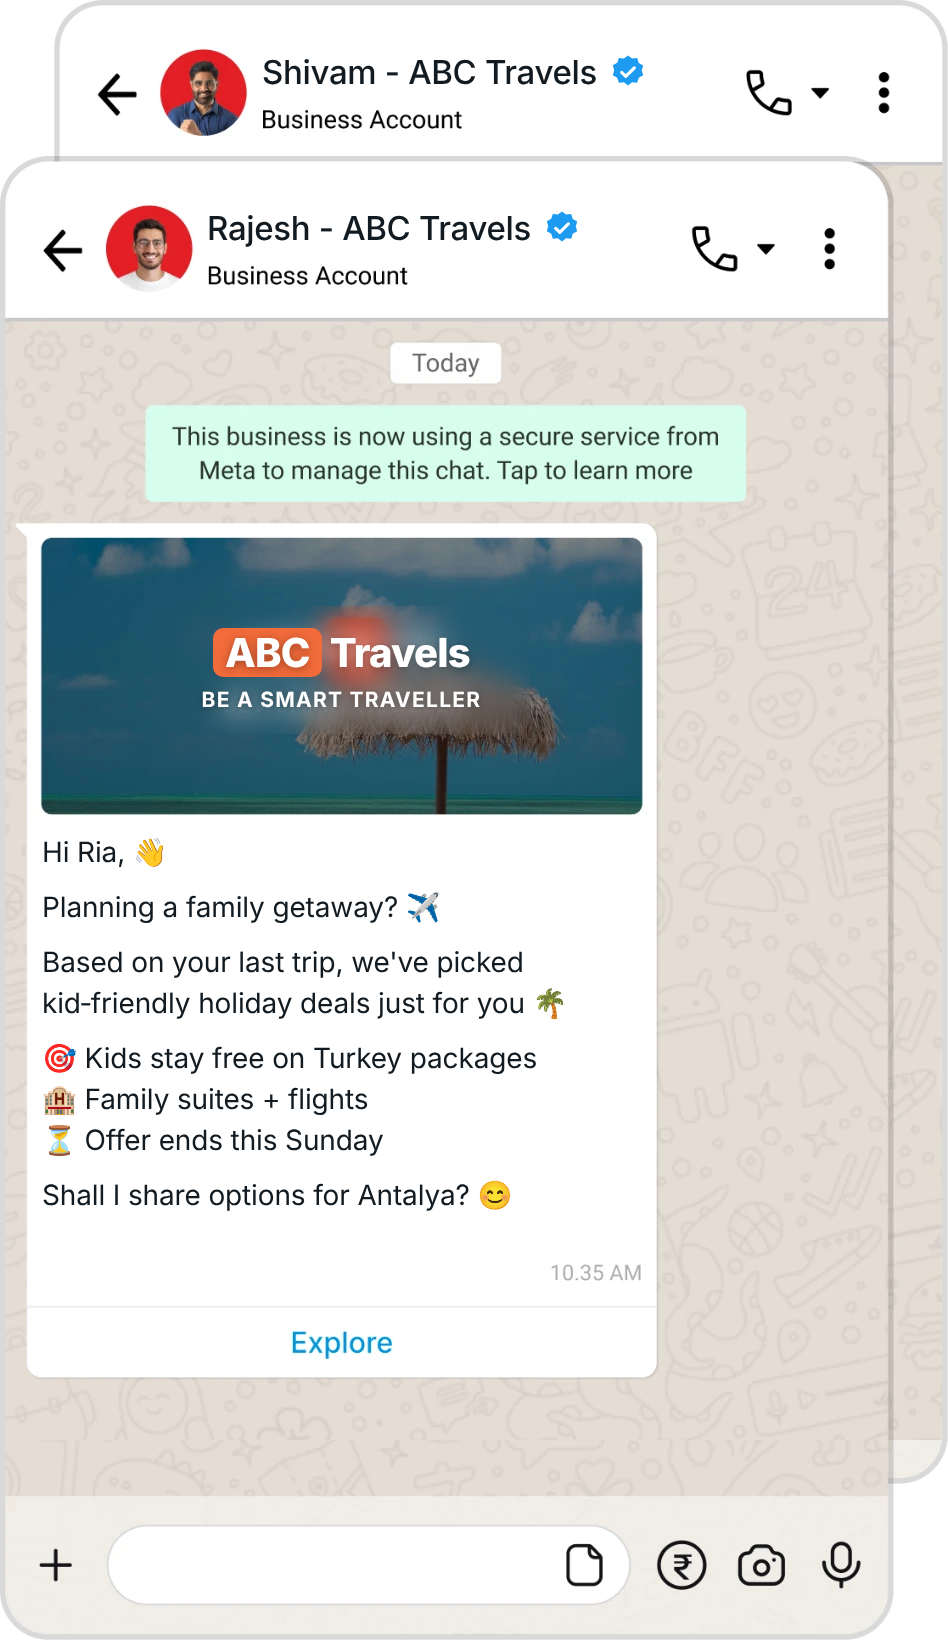
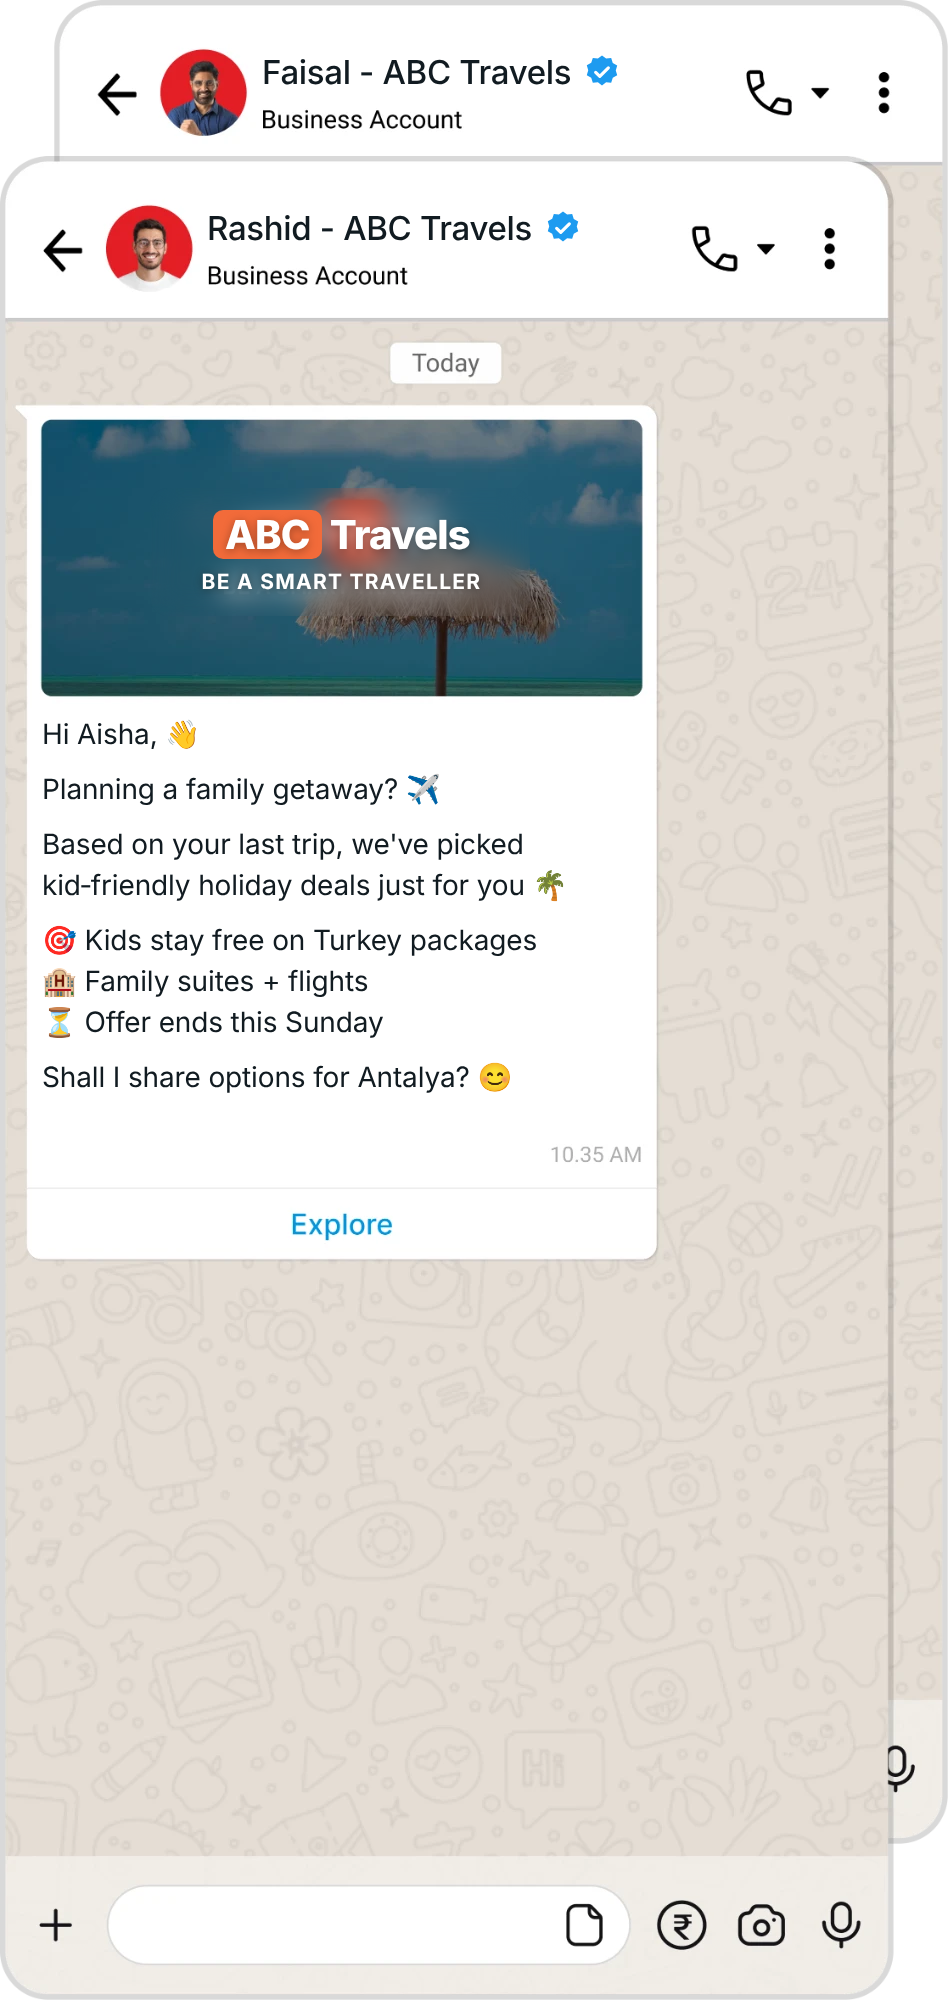
feat: UAE names, no segment tag, fading phone in smart campaigns ad
Claude-Session: https://claude.ai/code/session_01U68wzeZAut9FRgfZMxNXRM

diff --git a/ads/doubletick-smart-campaigns/src/chat-edit.html b/ads/doubletick-smart-campaigns/src/chat-edit.html
@@ -7,29 +7,29 @@
   .ref { position: absolute; inset: 0; width: 948px; height: 2000px; }
   .patch { position: absolute; background: #fff; }
   .name { position: absolute; display: flex; align-items: center; gap: 12px; font-size: 33px; font-weight: 500; letter-spacing: -0.01em; color: #111B21; white-space: nowrap; }
-  .blur { position: absolute; left: 150px; top: 606px; width: 380px; height: 128px; backdrop-filter: blur(14px); -webkit-backdrop-filter: blur(14px); border-radius: 18px; }
-  .brand { position: absolute; left: 41px; width: 601px; top: 628px; text-align: center; color: #fff; }
+  .blur { position: absolute; left: 150px; top: 488px; width: 380px; height: 128px; backdrop-filter: blur(14px); -webkit-backdrop-filter: blur(14px); border-radius: 18px; }
+  .brand { position: absolute; left: 41px; width: 601px; top: 510px; text-align: center; color: #fff; }
   .brand .lg { font-weight: 800; font-size: 40px; letter-spacing: -0.02em; text-shadow: 0 2px 10px rgba(0,0,0,0.35); }
   .brand .lg span { background: #F26B3A; padding: 0 12px; border-radius: 10px; margin-right: 8px; }
   .brand .tg { margin-top: 10px; font-weight: 700; font-size: 21px; letter-spacing: 0.06em; text-shadow: 0 1px 8px rgba(0,0,0,0.4); }
-  .msg { position: absolute; left: 42px; top: 832px; width: 600px; font-size: 28px; line-height: 41px; letter-spacing: -0.005em; }
+  .msg { position: absolute; left: 42px; top: 714px; width: 600px; font-size: 28px; line-height: 41px; letter-spacing: -0.005em; }
   .msg p + p { margin-top: 14px; }
 </style></head>
 <body>
   <img class="ref" src="chat-ref.png" />
   <!-- back chat name -->
   <div class="patch" style="left:255px; top:48px; width:440px; height:52px;"></div>
-  <div class="name" style="left:262px; top:52px;">Shivam - ABC Travels <svg width="38" height="38" viewBox="0 0 24 24"><path d="M12 1.5l2.6 2 3.2-.3 1 3.1 2.8 1.6-.9 3.1.9 3.1-2.8 1.6-1 3.1-3.2-.3-2.6 2-2.6-2-3.2.3-1-3.1L2.4 14l.9-3.1-.9-3.1 2.8-1.6 1-3.1 3.2.3z" fill="#1D9BF0"/><path d="M8 12.2l2.6 2.6L16 9.4" stroke="#fff" stroke-width="2" fill="none" stroke-linecap="round" stroke-linejoin="round"/></svg></div>
+  <div class="name" style="left:262px; top:52px;">Faisal - ABC Travels <svg width="38" height="38" viewBox="0 0 24 24"><path d="M12 1.5l2.6 2 3.2-.3 1 3.1 2.8 1.6-.9 3.1.9 3.1-2.8 1.6-1 3.1-3.2-.3-2.6 2-2.6-2-3.2.3-1-3.1L2.4 14l.9-3.1-.9-3.1 2.8-1.6 1-3.1 3.2.3z" fill="#1D9BF0"/><path d="M8 12.2l2.6 2.6L16 9.4" stroke="#fff" stroke-width="2" fill="none" stroke-linecap="round" stroke-linejoin="round"/></svg></div>
   <!-- front chat name -->
   <div class="patch" style="left:200px; top:204px; width:460px; height:54px;"></div>
-  <div class="name" style="left:207px; top:208px;">Rajesh - ABC Travels <svg width="38" height="38" viewBox="0 0 24 24"><path d="M12 1.5l2.6 2 3.2-.3 1 3.1 2.8 1.6-.9 3.1.9 3.1-2.8 1.6-1 3.1-3.2-.3-2.6 2-2.6-2-3.2.3-1-3.1L2.4 14l.9-3.1-.9-3.1 2.8-1.6 1-3.1 3.2.3z" fill="#1D9BF0"/><path d="M8 12.2l2.6 2.6L16 9.4" stroke="#fff" stroke-width="2" fill="none" stroke-linecap="round" stroke-linejoin="round"/></svg></div>
+  <div class="name" style="left:207px; top:208px;">Rashid - ABC Travels <svg width="38" height="38" viewBox="0 0 24 24"><path d="M12 1.5l2.6 2 3.2-.3 1 3.1 2.8 1.6-.9 3.1.9 3.1-2.8 1.6-1 3.1-3.2-.3-2.6 2-2.6-2-3.2.3-1-3.1L2.4 14l.9-3.1-.9-3.1 2.8-1.6 1-3.1 3.2.3z" fill="#1D9BF0"/><path d="M8 12.2l2.6 2.6L16 9.4" stroke="#fff" stroke-width="2" fill="none" stroke-linecap="round" stroke-linejoin="round"/></svg></div>
   <!-- banner: blur the original logo, set ABC Travels -->
   <div class="blur"></div>
   <div class="brand"><div class="lg"><span>ABC</span>Travels</div><div class="tg">BE A SMART TRAVELLER</div></div>
   <!-- message body -->
-  <div class="patch" style="left:30px; top:826px; width:620px; height:432px;"></div>
+  <div class="patch" style="left:30px; top:708px; width:620px; height:432px;"></div>
   <div class="msg">
-    <p>Hi Ria, 👋</p>
+    <p>Hi Aisha, 👋</p>
     <p>Planning a family getaway? ✈</p>
     <p>Based on your last trip, we've picked kid&#8209;friendly holiday deals just for you 🌴</p>
     <p>🎯 Kids stay free on Turkey packages<br/>🏨 Family suites + flights<br/>⏳ Offer ends this Sunday</p>

diff --git a/ads/doubletick-smart-campaigns/index.html b/ads/doubletick-smart-campaigns/index.html
@@ -57,7 +57,7 @@
   .strike { position: absolute; left: 34px; right: 34px; top: 46%; height: 3px; background: #D32F2F; transform: rotate(-14deg); opacity: 0.85; border-radius: 3px; }
 
   /* ---------- arrow ---------- */
-  .arrow { position: absolute; left: 488px; top: 609px; width: 46px; height: 46px; border-radius: 50%; background: var(--green); display: grid; place-items: center; box-shadow: 0 0 0 7px var(--bg); z-index: 4; }
+  .arrow { position: absolute; left: 462px; top: 609px; width: 46px; height: 46px; border-radius: 50%; background: var(--green); display: grid; place-items: center; box-shadow: 0 0 0 7px var(--bg); z-index: 4; }
 
   /* ---------- stacked WhatsApp chats (bleed off bottom) ---------- */
   .phone { position: absolute; border-radius: 30px 30px 0 0; background: #EFEAE2; border: 2px solid #E2E2DC; overflow: hidden; font-family: "Inter", "Segoe UI", Helvetica, Arial, sans-serif; color: #111B21; }
@@ -87,7 +87,7 @@
   .btn { border-top: 1px solid #E9EDEF; text-align: center; padding: 10px 0 11px; color: #0A84C1; font-weight: 500; font-size: 15.5px; }
   .comp { flex: none; height: 62px; display: flex; align-items: center; gap: 16px; padding: 0 16px; background: #F7F5F0; border-top: 1px solid #E6E2DA; }
   .comp .field { flex: 1; height: 40px; border-radius: 999px; background: #fff; border: 1px solid #E6E2DA; display: flex; align-items: center; justify-content: flex-end; padding: 0 12px; }
-  .chat { position: absolute; left: 618px; bottom: 0; height: 672px; width: auto; z-index: 3; filter: drop-shadow(0 -6px 24px rgba(19,19,22,0.12)); }
+  .chat { position: absolute; left: 566px; top: 410px; width: 474px; height: auto; z-index: 3; -webkit-mask-image: linear-gradient(to bottom, #000 0, #000 625px, transparent 672px); }
   .segchip { position: absolute; left: 594px; top: 458px; z-index: 5; display: flex; align-items: center; gap: 7px; font-size: 14px; font-weight: 600; color: #fff; background: var(--green); padding: 8px 14px; border-radius: 999px; box-shadow: 0 10px 20px -10px rgba(0,122,90,0.7); font-family: "Inter", sans-serif; }
 
   /* ---------- footer ---------- */
@@ -126,7 +126,6 @@
 
   <!-- personalised broadcast (edited reference chat), bottom flush with the canvas edge -->
   <img class="chat" src="chat.png" alt="" />
-  <div class="segchip"><svg width="14" height="14" viewBox="0 0 24 24" fill="none" stroke="#fff" stroke-width="2.4" stroke-linecap="round" stroke-linejoin="round"><circle cx="9" cy="8" r="3.5"/><path d="M2.5 20a6.5 6.5 0 0 1 13 0M16 4.5a3.5 3.5 0 0 1 0 7M18 14a6 6 0 0 1 3.5 6"/></svg>Segment: Families</div>
 
   <!-- footer -->
   <div class="footer">
